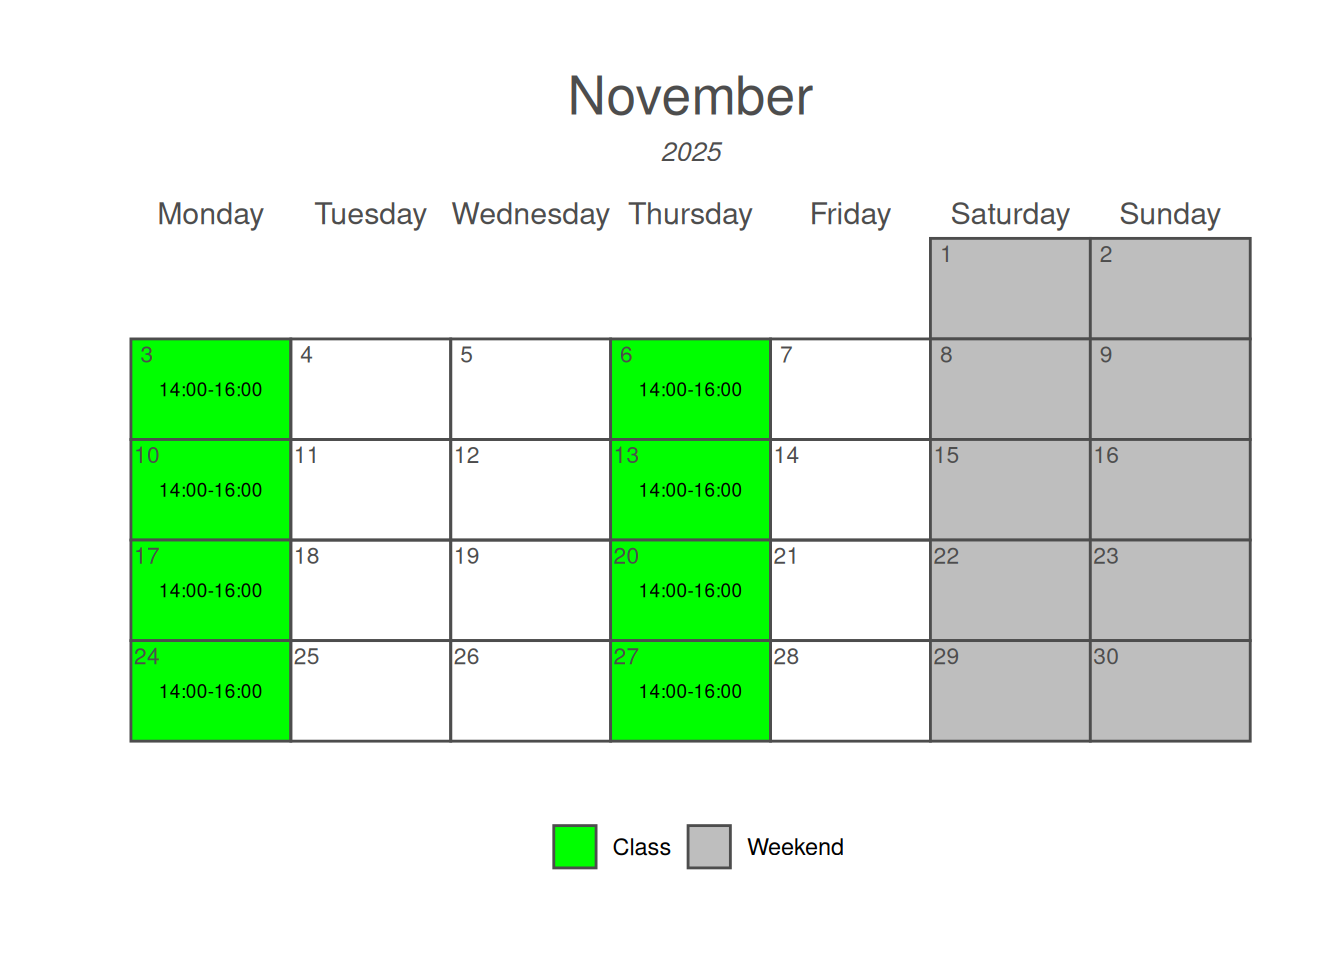
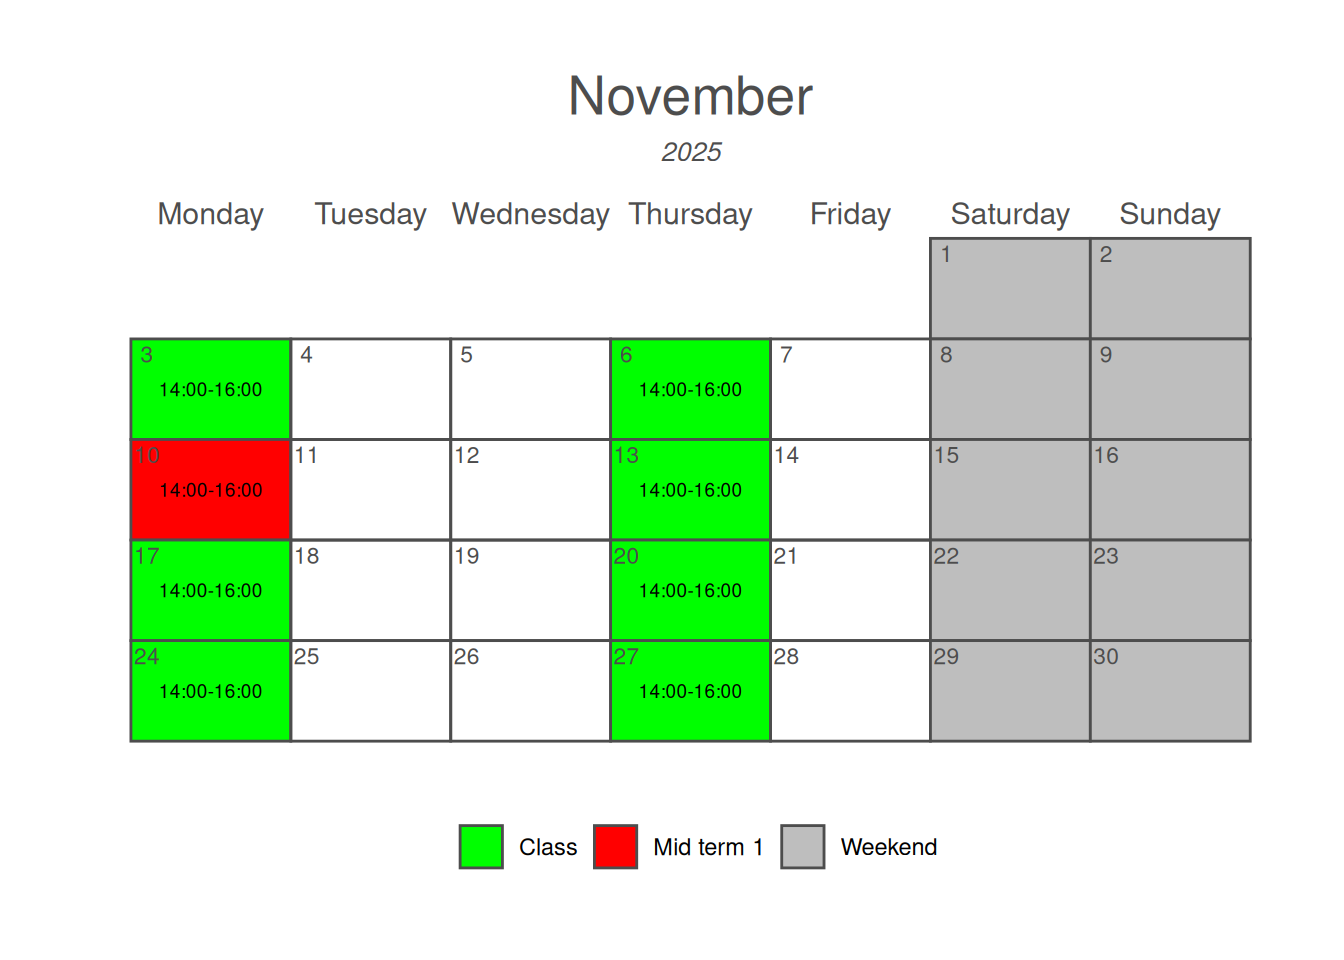
Updated calendar

Changed region(s): [[0.3438, 0.8438, 0.6875, 0.9062], [0.0938, 0.4375, 0.2188, 0.5625]]

diff --git a/docs/contact.html b/docs/contact.html
@@ -407,8 +407,8 @@ ul.task-list li input[type="checkbox"] {
 <p>Here you can find my contact information. My office is number 14, located on the first floor of the main building at “Laboratori di Ecologia Sperimentale ed Acquacoltura” in Via Cracovia 1, 00133 Rome, Italy.</p>
 <div class="cell">
 <div class="cell-output-display">
-<div class="leaflet html-widget html-fill-item" id="htmlwidget-1655a116d0964af18ecb" style="width:100%;height:464px;"></div>
-<script type="application/json" data-for="htmlwidget-1655a116d0964af18ecb">{"x":{"options":{"crs":{"crsClass":"L.CRS.EPSG3857","code":null,"proj4def":null,"projectedBounds":null,"options":{}}},"calls":[{"method":"addTiles","args":["https://{s}.tile.openstreetmap.org/{z}/{x}/{y}.png",null,null,{"minZoom":0,"maxZoom":18,"tileSize":256,"subdomains":"abc","errorTileUrl":"","tms":false,"noWrap":false,"zoomOffset":0,"zoomReverse":false,"opacity":1,"zIndex":1,"detectRetina":false,"attribution":"&copy; <a href=\"https://openstreetmap.org/copyright/\">OpenStreetMap<\/a>,  <a href=\"https://opendatacommons.org/licenses/odbl/\">ODbL<\/a>"}]},{"method":"addMarkers","args":[41.85021,12.6298,null,null,null,{"interactive":true,"draggable":false,"keyboard":true,"title":"","alt":"","zIndexOffset":0,"opacity":1,"riseOnHover":false,"riseOffset":250},"Office 14 is located on the first floor of this building",null,null,null,null,{"interactive":false,"permanent":false,"direction":"auto","opacity":1,"offset":[0,0],"textsize":"10px","textOnly":false,"className":"","sticky":true},null]}],"limits":{"lat":[41.85021,41.85021],"lng":[12.6298,12.6298]}},"evals":[],"jsHooks":[]}</script>
+<div class="leaflet html-widget html-fill-item" id="htmlwidget-d8f3bcf049895d0484bf" style="width:100%;height:464px;"></div>
+<script type="application/json" data-for="htmlwidget-d8f3bcf049895d0484bf">{"x":{"options":{"crs":{"crsClass":"L.CRS.EPSG3857","code":null,"proj4def":null,"projectedBounds":null,"options":{}}},"calls":[{"method":"addTiles","args":["https://{s}.tile.openstreetmap.org/{z}/{x}/{y}.png",null,null,{"minZoom":0,"maxZoom":18,"tileSize":256,"subdomains":"abc","errorTileUrl":"","tms":false,"noWrap":false,"zoomOffset":0,"zoomReverse":false,"opacity":1,"zIndex":1,"detectRetina":false,"attribution":"&copy; <a href=\"https://openstreetmap.org/copyright/\">OpenStreetMap<\/a>,  <a href=\"https://opendatacommons.org/licenses/odbl/\">ODbL<\/a>"}]},{"method":"addMarkers","args":[41.85021,12.6298,null,null,null,{"interactive":true,"draggable":false,"keyboard":true,"title":"","alt":"","zIndexOffset":0,"opacity":1,"riseOnHover":false,"riseOffset":250},"Office 14 is located on the first floor of this building",null,null,null,null,{"interactive":false,"permanent":false,"direction":"auto","opacity":1,"offset":[0,0],"textsize":"10px","textOnly":false,"className":"","sticky":true},null]}],"limits":{"lat":[41.85021,41.85021],"lng":[12.6298,12.6298]}},"evals":[],"jsHooks":[]}</script>
 </div>
 </div>
 <p><br></p>

diff --git a/docs/calendar.html b/docs/calendar.html
@@ -387,7 +387,7 @@ ul.task-list li input[type="checkbox"] {
     <div>
     <div class="quarto-title-meta-heading">Modified</div>
     <div class="quarto-title-meta-contents">
-      <p class="date-modified">October 7, 2025</p>
+      <p class="date-modified">October 10, 2025</p>
     </div>
   </div>
     
@@ -403,10 +403,10 @@ ul.task-list li input[type="checkbox"] {
 <table class="caption-top table table-sm table-striped small">
 <caption>The course will begin on Monday, September 29, 2025. The tentative schedule for mid-terms and final exams will be updated throughout the course.</caption>
 <colgroup>
-<col style="width: 24%">
-<col style="width: 10%">
-<col style="width: 32%">
-<col style="width: 32%">
+<col style="width: 23%">
+<col style="width: 15%">
+<col style="width: 30%">
+<col style="width: 30%">
 </colgroup>
 <thead>
 <tr class="header">
@@ -425,8 +425,8 @@ ul.task-list li input[type="checkbox"] {
 </tr>
 <tr class="even">
 <td style="text-align: left;">Mid Term Exam - 1</td>
-<td style="text-align: left;">TBD</td>
-<td style="text-align: left;">TBD</td>
+<td style="text-align: left;">Mon, 10 Nov</td>
+<td style="text-align: left;">14:00-16:00</td>
 <td style="text-align: left;">Aula centro studi pesca</td>
 </tr>
 <tr class="odd">
@@ -482,7 +482,7 @@ ul.task-list li input[type="checkbox"] {
 <td style="text-align: left;">2025-10-09</td>
 </tr>
 <tr class="odd">
-<td style="text-align: left;">Federcio Cornacchia</td>
+<td style="text-align: left;">Federico Cornacchia</td>
 <td style="text-align: left;"><a href="https://drive.proton.me/urls/GDG8WSDYV4#hwLzJKVDbTMo" style="     color: blue !important;">Chekunov_Scale of unregulated international trade in Australian reptiles and amphibians_2024</a></td>
 <td style="text-align: left;">2025-10-13</td>
 </tr>
@@ -552,7 +552,7 @@ ul.task-list li input[type="checkbox"] {
 <td style="text-align: left;">2025-11-27</td>
 </tr>
 <tr class="odd">
-<td style="text-align: left;">NA</td>
+<td style="text-align: left;">Loris Bognanno</td>
 <td style="text-align: left;"><a href="https://drive.proton.me/urls/XS012FVZ9C#8eovxYyyjWtL" style="     color: blue !important;">Simkins_Past conservation efforts reveal which actions lead to positive outcomes for species_2025</a></td>
 <td style="text-align: left;">2025-12-01</td>
 </tr>
